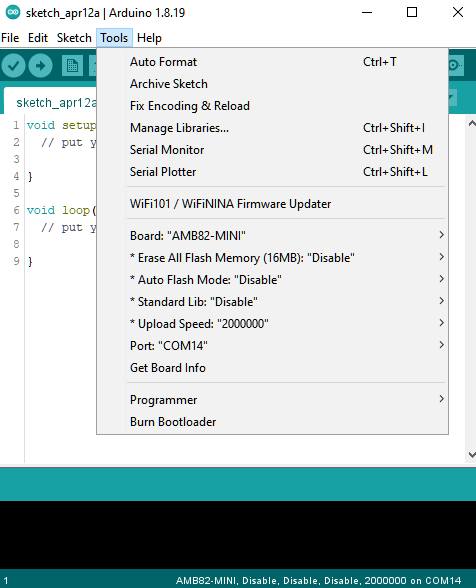
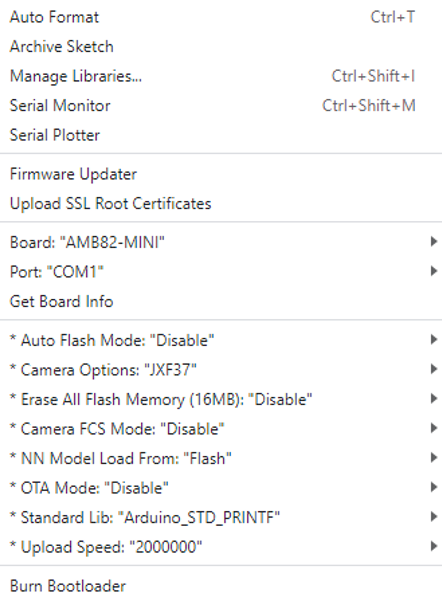
Update getting started

diff --git a/source/amebapro2/Getting_Started/Getting Started with Ameba.rst b/source/amebapro2/Getting_Started/Getting Started with Ameba.rst
@@ -150,31 +150,59 @@ There are many different Modes for user to select for different settings of comp
 
 |image09|
 
-+----------------------------------+------------------------------------------+-------------+
-| **Mode Name**                    | **Usage**                                | **Remarks** |
-+==================================+==========================================+=============+
-| \* Erase All Flash Memory (16MB) | -  Erase only. Erase entire flash.       |             |
-|                                  |                                          |             |
-|                                  | -  Erase then Upload. Erase entire flash |             |
-|                                  |    then upload the current application.  |             |
-|                                  |                                          |             |
-|                                  | -  Disable. Disable this option.         |             |
-+----------------------------------+------------------------------------------+-------------+
-| \* Auto Flash Mode               | -  Enable. Avoid manual process when     |             |
-|                                  |    uploading.                            |             |
-|                                  |                                          |             |
-|                                  | -  Disable. Disable this option.         |             |
-+----------------------------------+------------------------------------------+-------------+
-| \* Standard Lib                  | -  Arduino_STD_PRINTF. Choose the        |             |
-|                                  |    standard library function for compile |             |
-|                                  |    and upload.                           |             |
-|                                  |                                          |             |
-|                                  | -  Disable. No standard library          |             |
-|                                  |    function.                             |             |
-+----------------------------------+------------------------------------------+-------------+
-| \* Upload Speed                  | -  Different upload baud rate to select. |             |
-|                                  |    The default is 2000000.               |             |
-+----------------------------------+------------------------------------------+-------------+
++----------------------------------+---------------------------------------------+-------------+
+| **Mode Name**                    | **Usage**                                   | **Remarks** |
++==================================+=============================================+=============+
+| \* Auto Flash Mode               | - Disable. Manual process to enter flash    |             |
+|                                  |   mode.                                     |             |
+|                                  |                                             |             |
+|                                  | - Enable. Auto process to enter flash mode. |             |
++----------------------------------+---------------------------------------------+-------------+
+| \* Camera Options                | - JFX37. Use the camera sensor JFX37.       |             |
+|                                  |                                             |             |
+|                                  | - GC5035. Use the camera sensor GC5035.     |             |
+|                                  |                                             |             |
+|                                  | - JFX53. Use the camera sensor JFX53.       |             |
+|                                  |                                             |             |
+|                                  | - IMX327. Use the camera sensor IMX327.     |             |
+|                                  |                                             |             |
+|                                  | - PS5268. Use the camera sensor PS5268.     |             |
++----------------------------------+---------------------------------------------+-------------+
+| \* Erase All Flash Memory (16MB) | - Disable. No erash flash process.          |             |
+|                                  |                                             |             |
+|                                  | - Erase only. Erase entire flash.           |             |
+|                                  |                                             |             |
+|                                  | - Erase then Upload. Erase entire flash     |             |
+|                                  |   then upload the current application.      |             |
++----------------------------------+---------------------------------------------+-------------+
+| \* Camera FCS Mode               | - Disable. No Camera FCS mode process.      |             |
+|                                  |                                             |             |
+|                                  | - Enable. Enable Camera FCS mode, if the    |             |
+|                                  |   camera sensor has FCS mode.               |             |
++----------------------------------+---------------------------------------------+-------------+
+| \* NN Model Load From            | - Flash. Load the Neural Network AI model   |             |
+|                                  |   from flash memory.                        |             |
+|                                  |                                             |             |
+|                                  | - SD Card. Load the Neural Network AI model |             |
+|                                  |   from SD card memory. Total size of the    |             |
+|                                  |   models depend on the total size of the SD |             |
+|                                  |   card.                                     |             |
++----------------------------------+---------------------------------------------+-------------+
+| \* OTA Mode                      | - Disable. No OTA mode process.             |             |
+|                                  |                                             |             |
+|                                  | - Enable. Enable OTA mode.                  |             |
++----------------------------------+---------------------------------------------+-------------+
+| \* Standard Lib                  | - Arduino_STD_PRINTF. Choose the standard   |             |
+|                                  |   library function for compile and upload.  |             |
+|                                  |                                             |             |
+|                                  | - Disable. No standard library function.    |             |
++----------------------------------+---------------------------------------------+-------------+
+| \* Upload Speed                  | - 2000000. Upload baud rate set as 2000000. |             |
+|                                  |                                             |             |
+|                                  | - 1000000. Upload baud rate set as 1000000. |             |
+|                                  |                                             |             |
+|                                  | - 230400. Upload baud rate set as 230400.   |             |
++----------------------------------+---------------------------------------------+-------------+
 
 Step 2. Compile
 ~~~~~~~~~~~~~~~
@@ -276,8 +304,8 @@ Useful Links
    :width:  773 px
    :height:  600 px
 .. |image09| image:: ../../_static/amebapro2/Getting_Started/Getting_Started_with_AMB82-mini/image09.png
-   :width:  476 px
-   :height:  588 px
+   :width:  442 px
+   :height:  602 px
 .. |image10| image:: ../../_static/amebapro2/Getting_Started/Getting_Started_with_AMB82-mini/image10.png
    :width:  555 px
    :height:  605 px
